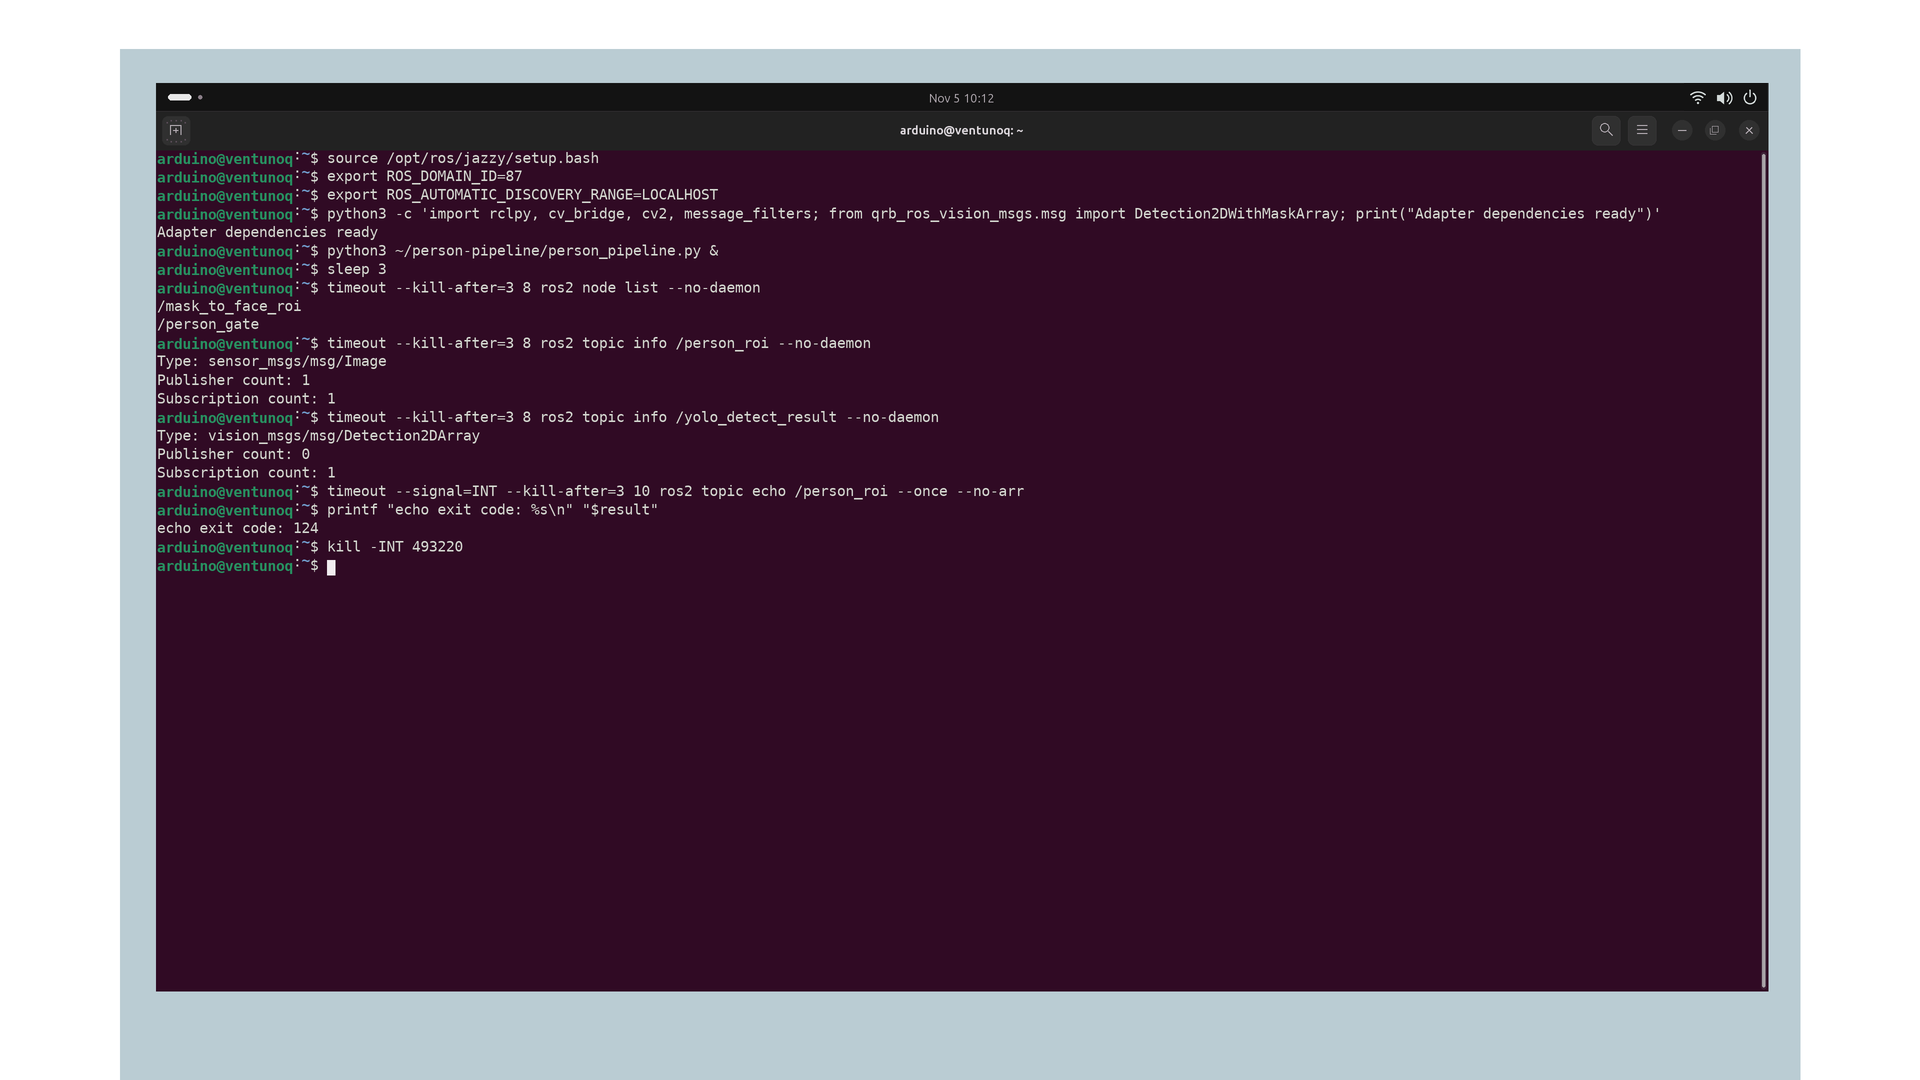
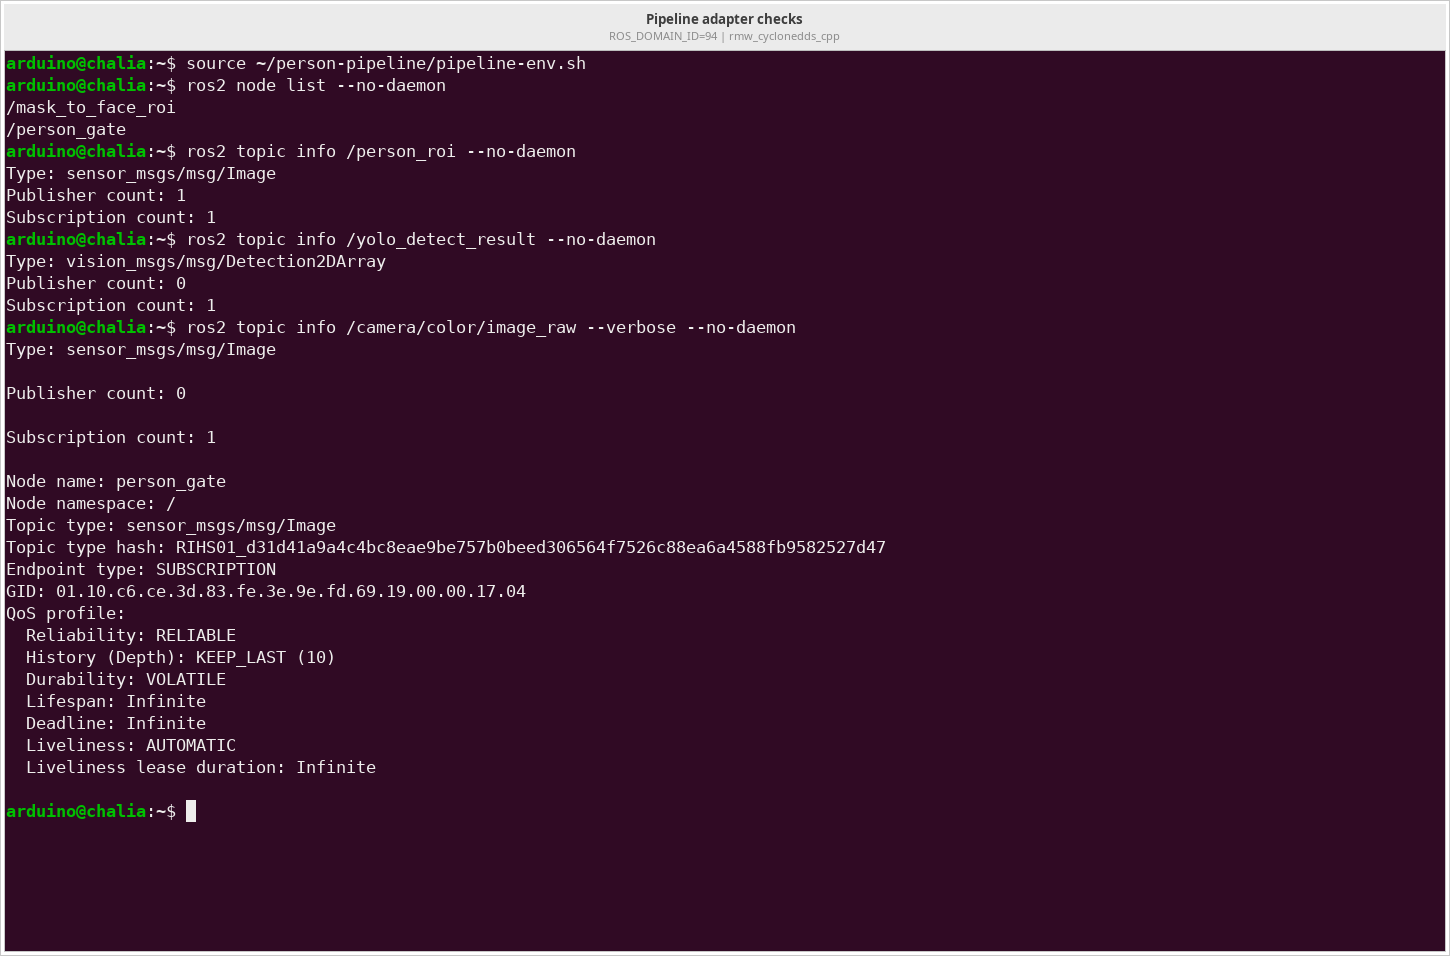
Retake adapter diagnostics with the Cyclone DDS environment

diff --git a/content/hardware/ventuno/boards/ventuno-q/tutorials/robotics-sdk/nn-inference-person-pipeline/nn-inference-person-pipeline.md b/content/hardware/ventuno/boards/ventuno-q/tutorials/robotics-sdk/nn-inference-person-pipeline/nn-inference-person-pipeline.md
@@ -735,11 +735,11 @@ ros2 topic info /camera/color/image_raw --verbose --no-daemon
 
 Expect `/person_gate`, `/mask_to_face_roi`, and input publishers. Reliable subscriptions require reliable publishers. If the graph is incomplete, check that every terminal uses `rmw_cyclonedds_cpp`, the same domain, and `LOCALHOST` discovery. Check `net.core.rmem_max` again if large image topics stall.
 
-![Adapter nodes exist but there is no detection publisher.](assets/pipeline-adapter-check.png)
+![Adapter nodes exist, but camera and detection publishers are missing.](assets/pipeline-adapter-check.png)
 
 <Alert type="info">
 
-The adapter is running, but the detector has no publisher. Start the detector from Step 3, then check `/person_roi` again.
+The adapter is running, but the camera and detector have no publishers. Start the camera and detector from Step 3, then check `/person_roi` again.
 
 </Alert>
 
